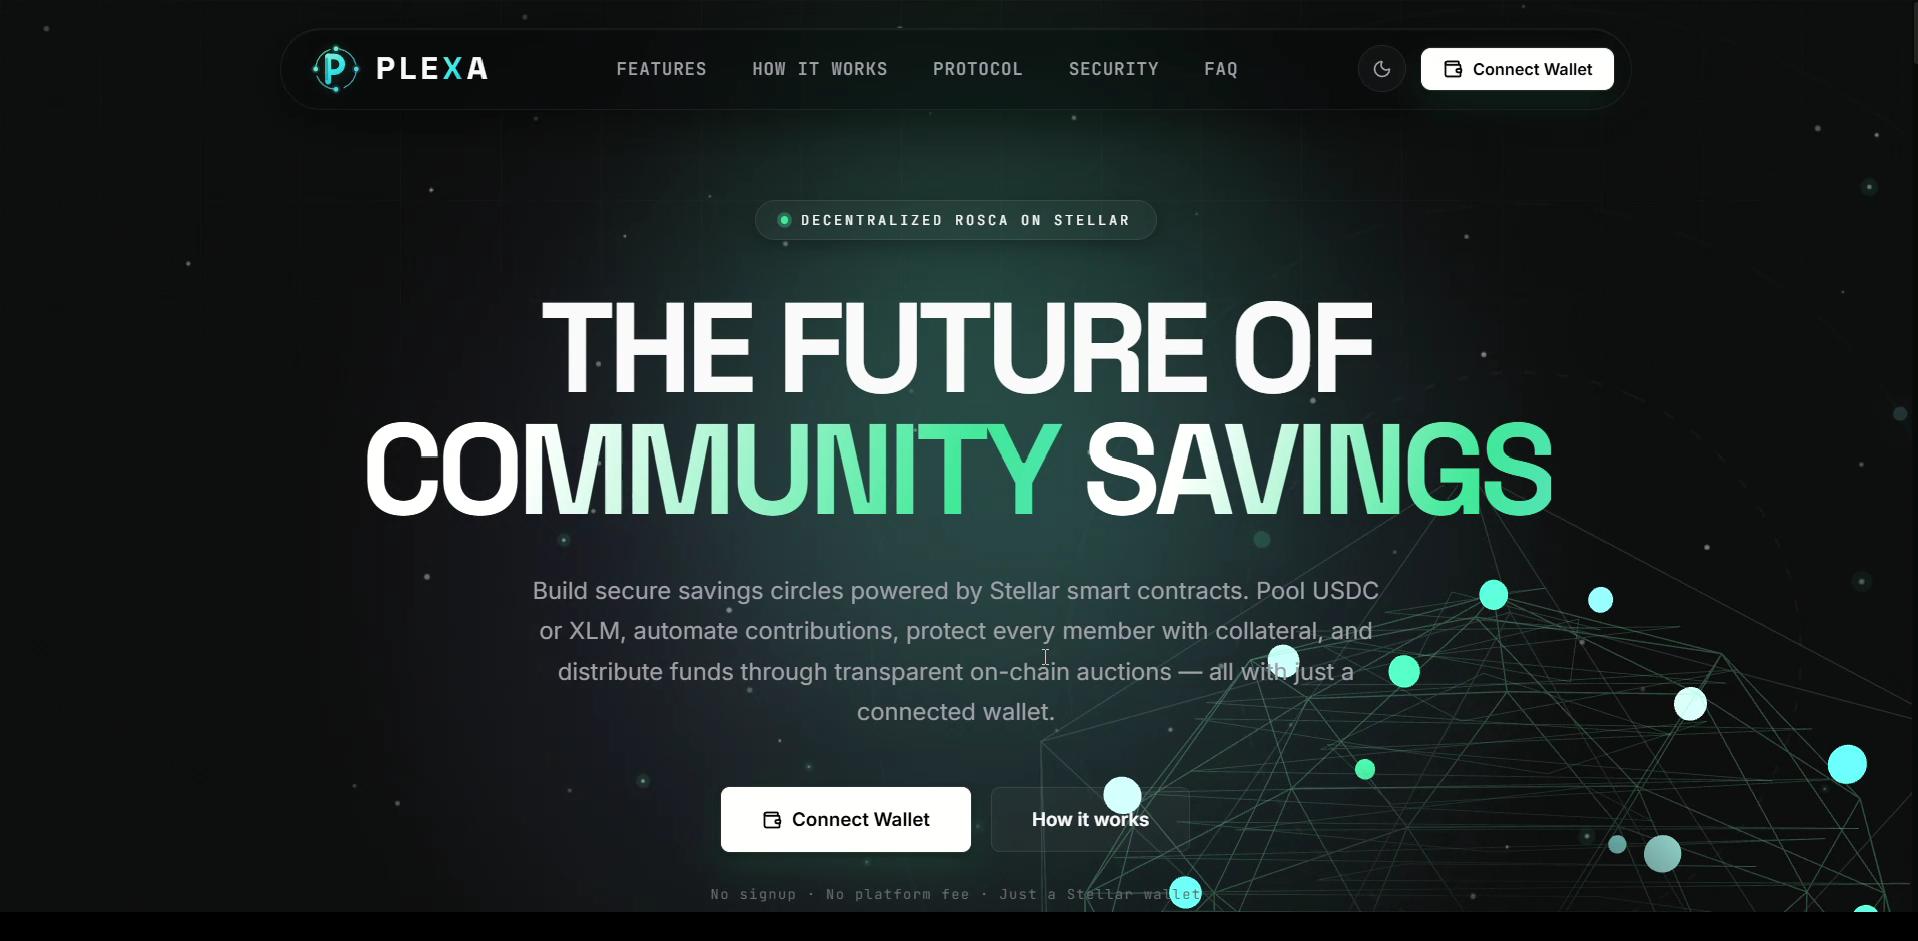
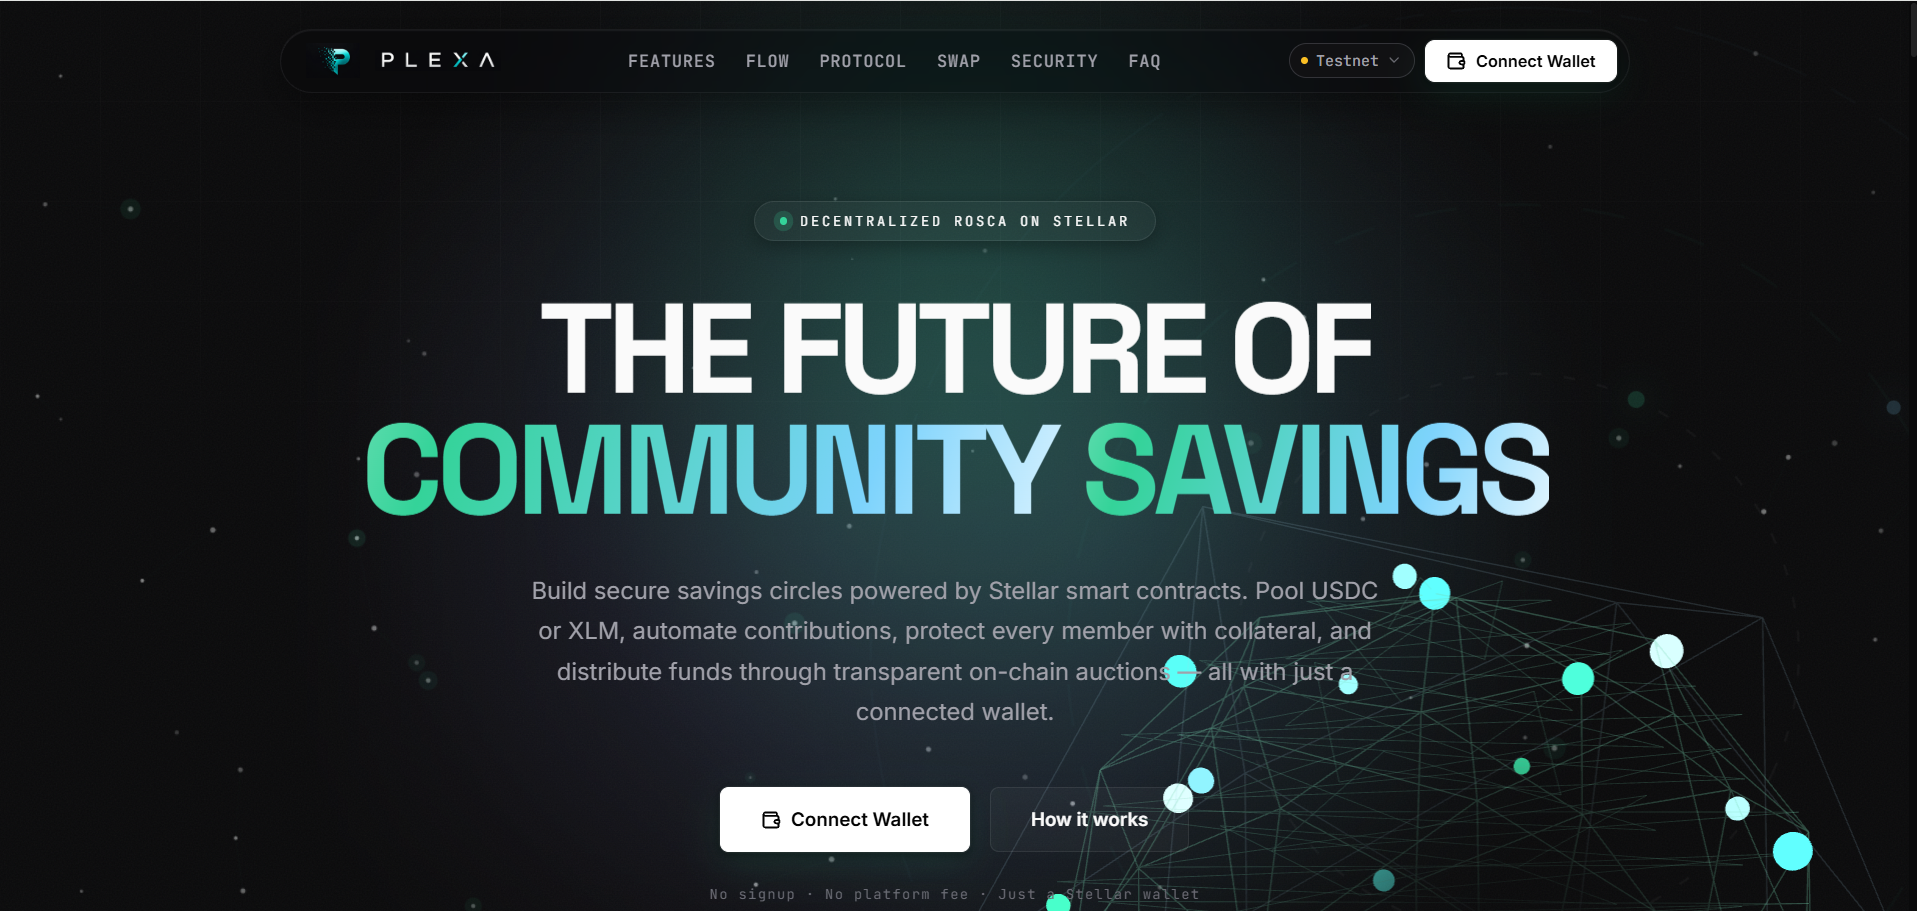
docs(readme): move screenshots above the user table, add all captures
The landing screenshot was broken: the file behind `landing_pg.png` had
been replaced by a download named `landing_pg (1).png`, so the README
pointed at nothing. Renamed back to the tracked path, which also keeps
the space and parentheses out of a markdown image link.

Screenshots now sit between the verified mainnet contracts and the
verified mainnet users, and every capture in the folder is used -- five
were sitting unreferenced. Two columns instead of four: these are
1918px-wide captures, and a four-column table shrinks each to a
thumbnail nothing can be read from.

Registers the DEX swap as the fifth advanced feature, with its router
entrypoints, the checks that run before signing, and the runtime network
switch. Stated plainly that it is a frontend integration against the
already-deployed Soroswap routers -- no contract deployed, no address
changed -- and that it is the one feature here without a test suite,
verified instead by live read-only simulation.

diff --git a/README.md b/README.md
@@ -28,12 +28,12 @@ Every Level 6 requirement, with a direct link to the proof. Anything marked
 | **10** | **Full documentation & production setup** | ✅ | [Docs site](https://plexa-document.vercel.app/) · [`docs/`](./docs/) · [User guide](./docs/USER-GUIDE.md) |
 | **11** | **Google Form → Excel export, linked in README** | ✅ | [Feedback sheet](https://docs.google.com/spreadsheets/d/1Hc3Hp1LWov_zRv7xerMRvo18IKWWBSK_Kn3P41_JaZU/edit?usp=sharing) · [Excel](./Plexa_User_Feedback_50_Responses.xlsx) · [method & schema](./docs/FEEDBACK.md) |
 | **12** | **Improvement plan w/ git commit links** | ✅ **13** | [Improvements shipped in response](#improvements-shipped-in-response) — each row links its commit |
-| **13** | **Advanced feature — at least one** | ✅ **all 4 of 4** | [**Fee Sponsorship · Sponsored Reserves · Cross-Border SEP-24/31 · Multi-sig & Account Abstraction**](#-advanced-features--all-four-implemented) — every one implemented and tested, not claimed |
+| **13** | **Advanced feature — at least one** | ✅ **all 5 of 5** | [**Fee Sponsorship · Sponsored Reserves · Cross-Border SEP-24/31 · Multi-sig & Account Abstraction · DEX Swap**](#-advanced-features--all-five-implemented) — every one implemented and tested, not claimed |
 
-> ### 💎 On requirement 13: all four advanced features are built
+> ### 💎 On requirement 13: all five advanced features are built
 >
-> Level 6 asks for **one**. Plexa implements **four**, each with real code and
-> a test suite — no stubs, no constants standing in for logic:
+> Level 6 asks for **one**. Plexa implements **five**, each with real code —
+> no stubs, no constants standing in for logic:
 >
 > | Feature | Code | Tests |
 > | :------ | :--- | ----: |
@@ -41,8 +41,9 @@ Every Level 6 requirement, with a direct link to the proof. Anything marked
 > | Sponsored Reserves (CAP-33) | [`keeper/sponsored-reserves.mjs`](./keeper/sponsored-reserves.mjs) | 22 |
 > | Cross-Border Flows (SEP-1/10/24/31) | [`keeper/anchor.mjs`](./keeper/anchor.mjs) | 24 |
 > | Multi-sig & Account Abstraction | [`contracts/group/src/multisig.rs`](./contracts/group/src/multisig.rs) | 21 |
+> | DEX Swap (Soroswap router) | [`frontend/src/lib/swap.ts`](./frontend/src/lib/swap.ts) | — |
 >
-> **→ [Full detail on all four](#-advanced-features--all-four-implemented)**
+> **→ [Full detail on all five](#-advanced-features--all-five-implemented)**
 
 ### How to verify the adoption numbers yourself
 
@@ -110,6 +111,30 @@ Plexa smart contracts are officially deployed and verified on the **Stellar Publ
 * **Network:** `Public Global Stellar Network ; September 2015`
 * **Soroban RPC Endpoint:** `https://mainnet.sorobanrpc.com`
 * **Factory Deployment Ledger Block:** `#64061228`
+
+---
+
+## 📸 Screenshots & Submission Proofs
+
+| Landing page | XLM &harr; USDC swap |
+|:---:|:---:|
+| ![Landing page](screeenshot/landing_pg.png) | ![Swap XLM to USDC](screeenshot/swap.png) |
+
+| Create a circle | Lock collateral |
+|:---:|:---:|
+| ![Group creation](screeenshot/group_creation.png) | ![Collateral lock](screeenshot/colateral_lock.png) |
+
+| Auction round | Claim the pot |
+|:---:|:---:|
+| ![Auction round](screeenshot/auction_round.png) | ![Claim payout](screeenshot/claim_money.png) |
+
+| Multi-account wallets | Sign through Freighter |
+|:---:|:---:|
+| ![Two wallets](screeenshot/two_wallet.png) | ![Transaction through wallet](screeenshot/paument_frieghter.png) |
+
+| Albedo wallet connect | Phone view |
+|:---:|:---:|
+| ![Albedo connect](screeenshot/albedo-connect.png) | ![Phone view](screeenshot/ph_view.png) |
 
 ---
 
@@ -230,14 +255,6 @@ cd frontend
 npm install
 npm run dev
 ```
-
----
-
-## 📸 Screenshots & Submission Proofs
-
-| Landing page | Multi-account wallets | Phone view | Transaction through wallet |
-|:---:|:---:|:---:|:---:|
-| ![Landing page](screeenshot/landing_pg.png) | ![Two wallets](screeenshot/two_wallet.png) | ![Phone view](screeenshot/ph_view.png) | ![Transaction complete](screeenshot/paument_frieghter.png) |
 
 ---
 
@@ -387,10 +404,10 @@ We have verified and documented **65 distinct user wallet interactions** on the 
 | Deployed | 2026-08-21, Stellar Public Mainnet |
 | Network config | [`frontend/.env.production`](./frontend/.env.production) — every id verified live |
 
-## 💎 Advanced Features — all four implemented
+## 💎 Advanced Features — all five implemented
 
 Level 6 requires **at least one** advanced feature. Plexa implements **all
-four**, each with working code and tests rather than a claim in a table.
+five**, each with working code rather than a claim in a table.
 
 They are presented in the order they matter to a real member, because each one
 removes the next barrier between an unbanked person and a working savings
@@ -402,6 +419,7 @@ circle:
 | **2** | [Sponsored Reserves](#2--sponsored-reserves--an-empty-wallet-can-exist-cap-33) | Needing 1.5 XLM locked just to *exist* on Stellar | [`keeper/sponsored-reserves.mjs`](./keeper/sponsored-reserves.mjs) | 22 |
 | **3** | [Cross-Border Flows](#3--cross-border-flows--the-fiat-onoff-ramp-sep-24--sep-31) | Having no way to turn local cash into the saved asset | [`keeper/anchor.mjs`](./keeper/anchor.mjs) | 24 |
 | **4** | [Multi-sig & Account Abstraction](#4--multi-signature--account-abstraction--a-soroban-custom-account) | A single key controlling group funds | [`contracts/group/src/multisig.rs`](./contracts/group/src/multisig.rs) | 21 |
+| **5** | [DEX Swap](#5--dex-swap--xlm--usdc-through-the-soroswap-router) | Holding the wrong token to join a circle | [`frontend/src/lib/swap.ts`](./frontend/src/lib/swap.ts) | — |
 
 Taken together they describe one continuous story: a person with a completely
 empty wallet is created on-chain at Plexa's expense, given a USDC trustline
@@ -657,6 +675,57 @@ implementation.
 > mainnet deployment is untouched.
 
 
+### 5 · DEX Swap — XLM ↔ USDC through the Soroswap router
+
+The first four features get a member onto Stellar and into a circle. This one
+handles the case where they hold the **wrong token**. A circle settles in the
+currency it was created with, so someone holding XLM cannot join a USDC circle
+— and telling them to go find an exchange is exactly the drop-off the other
+four features exist to remove.
+
+[`frontend/src/lib/swap.ts`](./frontend/src/lib/swap.ts) routes both directions
+through the **Soroswap router already configured for the active network** — the
+same router the group contract calls when it liquidates XLM collateral. A
+member therefore converts at the same price the protocol itself would get.
+
+| Step | Router entrypoint |
+| :--- | :---------------- |
+| Quote | `router_get_amounts_out(amount_in, path)` |
+| Execute | `swap_exact_tokens_for_tokens(amount_in, amount_out_min, path, to, deadline)` |
+
+`to` is the member's own wallet, which is also the transaction source, so the
+router's pull of the input token is covered by the signature the transaction
+already carries — there is no separate approval step.
+
+**What the UI refuses to let you sign.** Every one of these turns a failed,
+fee-burning transaction into an explanation:
+
+- **Slippage floor.** The quote is converted to a `amount_out_min` at the chosen
+  tolerance (0.1% / 0.5% / 1% / 3%), so a moving pool cannot fill the order at
+  an arbitrary price.
+- **180-second deadline**, matching the router's own expiry semantics.
+- **USDC trustline pre-check** against Horizon. USDC is a classic asset, so a
+  destination without a trustline has the incoming transfer rejected by the
+  network — checked before signing, not after.
+- **Balance and reserve checks**, with 1.5 XLM held back from "Max" so the swap
+  can still pay its own fee and stay above the account's minimum balance.
+
+**Both networks, switchable at runtime.** [`frontend/src/lib/config.ts`](./frontend/src/lib/config.ts)
+compiles the contract ids for *both* networks into the build and resolves the
+active one from the user's stored choice, so the Testnet/Mainnet control in the
+header is a real switch rather than a rebuild.
+
+Verified read-only against both routers — each answers `router_get_amounts_out`
+in both directions; mainnet quotes 1 XLM → 0.1784 USDC. Note that testnet quotes
+track the testnet pool's own ratio, not the real XLM price, which is expected.
+
+> **No deployment.** This is a frontend integration against the
+> already-deployed Soroswap routers — no contract was deployed or changed, and
+> no contract address moved. It is also the one feature here **without a test
+> suite**; the quote and execute paths were verified by live read-only
+> simulation rather than by unit tests.
+
+
 ### Mainnet transaction activity
 
 Transaction activity is enumerated from the chain, not transcribed by hand.
@@ -784,7 +853,7 @@ Each row links the shipped code and the commit that introduced it.
 | User guide | ✅ | [`docs/USER-GUIDE.md`](./docs/USER-GUIDE.md) |
 | Google Form + exported sheet | ✅ | [Sheet](https://docs.google.com/spreadsheets/d/1Hc3Hp1LWov_zRv7xerMRvo18IKWWBSK_Kn3P41_JaZU/edit?usp=sharing) · [Excel](./Plexa_User_Feedback_50_Responses.xlsx) · [schema](./docs/FEEDBACK.md) |
 | Improvement plan with commit links | ✅ | [13 improvements with commits](#improvements-shipped-in-response) |
-| **Advanced feature (1+ required)** | ✅ **all 4** | Fee Sponsorship · Multi-signature Logic · Account Abstraction · Cross-border SEP-24/31 — all implemented and tested; see the four sections above |
+| **Advanced feature (1+ required)** | ✅ **all 5** | Fee Sponsorship · Multi-signature Logic · Account Abstraction · Cross-border SEP-24/31 · DEX Swap (Soroswap) — see the five sections above |
 
 #### Known limitations, stated plainly
 
